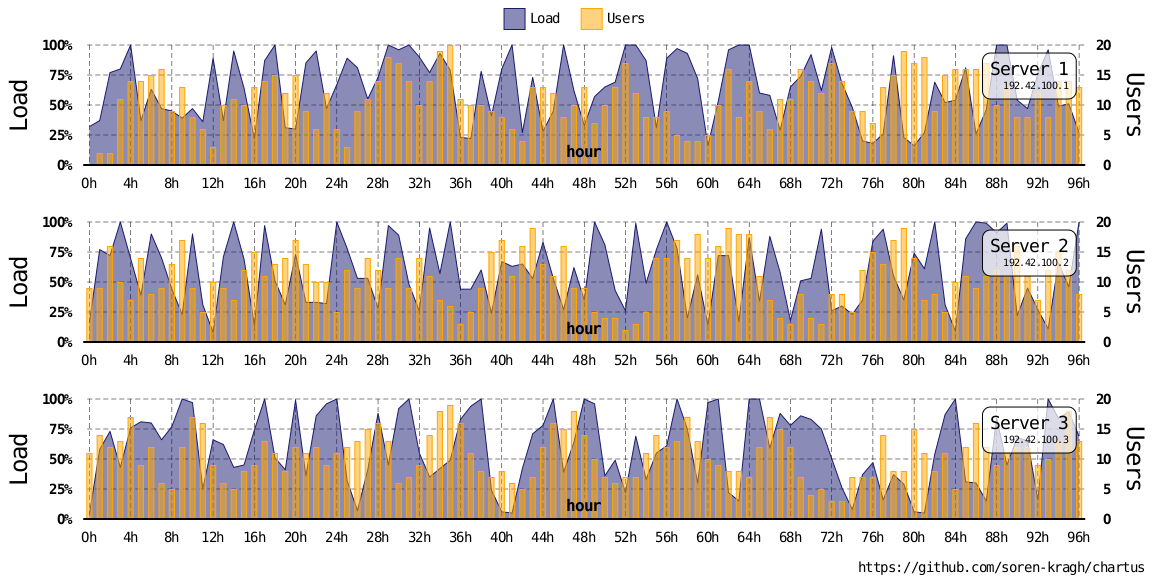
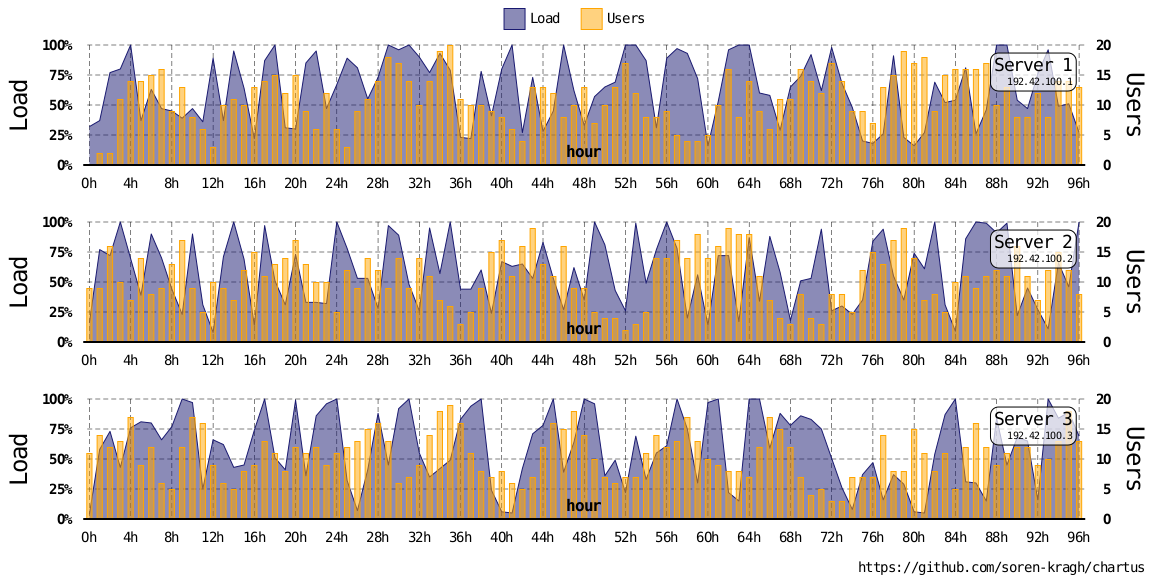
v2.0.0

Changed region(s): [[0.8423, 0.6792, 0.9359, 0.8027], [0.8423, 0.4014, 0.9359, 0.494], [0.8423, 0.0926, 0.9359, 0.1852]]

diff --git a/src/main.cpp b/src/main.cpp
@@ -79,7 +79,7 @@ state_t state;
 
 void show_version( void )
 {
-  std::cout << R"EOF(chartus v2.0.0-beta
+  std::cout << R"EOF(chartus v2.0.0
 This is free software: you are free to change and redistribute it.
 
 Written by Soren Kragh

diff --git a/README.md b/README.md
@@ -25,7 +25,7 @@ See [examples](#built-in-examples) below.
 ```sh
 git clone --recurse-submodules https://github.com/soren-kragh/chartus.git
 cd chartus
-git checkout VERSION    # Replace VERSION with actual release tag, e.g. v1.0.0
+git checkout VERSION    # Replace VERSION with actual release tag, e.g. v2.0.0
 git submodule update --init --recursive
 make
 ```
@@ -211,7 +211,7 @@ Series.Data :
 # ZeroToO: Off
 # GridPadding: 0 50
 # NewChartInGrid: 0 0 3 0 Center Bottom
-# NewChartInChart: 0 0 Bottom Right
+# NewChartOnGrid: Bottom Right
 # ChartPadding: -1 0
 # ChartPaddingX: 12
 # ChartPaddingY: 12
@@ -301,10 +301,11 @@ Series.Data :
 # @FillColor: None
 # @TextColor: black
 # @TextAnchor: Top Center
-# @TextSize: 24
+# @TextSize: 1.5
 # @TextBold: On
 # @LetterSpacing: 1.8 1.1 0.8
 # @RectCornerRadius: 10
+# @BoxCornerRadius: 10
 # @Line: X1 Y1 X2 Y2
 # @Rect: X1 Y1 X2 Y2
 # @Circle: X Y Radius
@@ -595,10 +596,10 @@ FootnotePos: Right
 # row/column is wider (due to other larger charts) than the new chart.
 #NewChartInGrid: 0 0 1 1 Right Top
 
-# NewChartInChart has the same syntax as NewChartInGrid but with grid collision
+# NewChartOnGrid has the same syntax as NewChartInGrid but with grid collision
 # check disabled. A typical (if not only) use case for this is to embed a
 # smaller chart within and on top of another chart. When starting a new chart
-# with NewChartInChart, the ChartPadding (see below) defaults to 12 0. Please
+# with NewChartOnGrid, the ChartPadding (see below) defaults to 12 0. Please
 # note that the new chart is just placed on top of whatever previous charts were
 # drawn before, so more manual adjustments than usual might be needed.
 # As for the positional alignment, please note that these are relative to the
@@ -616,9 +617,9 @@ FootnotePos: Right
 #
 # # This embedded chart will be aligned relative to column 1, which is exactly
 # # as wide as the previous not so wide chart:
-# NewChartInChart: Bottom Left
+# NewChartOnGrid: Bottom Left
 #
-#NewChartInChart: 0 0 Left Top
+#NewChartOnGrid: 0 0 Left Top
 
 # Defines the padding for the current chart, it works somewhat like GridPadding
 # but applies to the current chart only. Normally charts arranged in a grid are
@@ -630,8 +631,8 @@ FootnotePos: Right
 # behavior). The second optional number specifies the additional extra margin
 # when aligning relative the core chart area.
 # You typically use ChartPadding to adjust placement of embedded charts (see
-# NewChartInChart).
-# The NewChartInGrid and NewChartInChart defaults respectively are shown below.
+# NewChartOnGrid).
+# The NewChartInGrid and NewChartOnGrid defaults respectively are shown below.
 #ChartPadding: -1 0
 #ChartPadding: 12 0
 
@@ -1188,7 +1189,7 @@ MacroDef: AnnotationDocumentation
 
 # Applies to all subsequent annotations.
 @TextAnchor: Top Center
-@TextSize: 24
+@TextSize: 1.5
 @TextBold: On
 
 # The LetterSpacing (see earler description) is used for all subsequent @Text
@@ -1196,13 +1197,14 @@ MacroDef: AnnotationDocumentation
 @LetterSpacing: 1.8 1.1 0.8
 
 # Rounded corners for rectangles; is used for all subsequent @Rect and @TextBox
-# elements.
+# elements. BoxCornerRadius is just an alias.
 @RectCornerRadius: 10
+@BoxCornerRadius: 10
 
 @Line: X1 Y1 X2 Y2
 @Rect: X1 Y1 X2 Y2
 @Circle: X Y Radius
-@Ellipse: X Y RadiusX RadiusY
+@Ellipse: X1 Y1 X2 Y2
 @Polyline: X1 Y1 X2 Y2 X3 Y3 ...
 @Polygon: X1 Y1 X2 Y2 X3 Y3 ...
 

diff --git a/CHANGELOG.md b/CHANGELOG.md
@@ -3,6 +3,22 @@
 All notable changes to this project will be documented in this file.
 
 ## [Unreleased]
+
+### Added
+
+### Changed
+
+### Deprecated
+
+### Removed
+
+### Fixed
+
+---
+
+
+## [2.0.0] - 2025-12-15
+
 ### Added
 - Add Series.Color
 - Support annotations
@@ -26,14 +42,8 @@ All notable changes to this project will be documented in this file.
 - TitleFrame renamed TitleBox
 - LegendFrame renamed LegendBox
 
-### Deprecated
-
-### Removed
-
-### Fixed
-
----
 
 ## [1.0.0] - 2025-07-14
+
 ### Added
 - Initial release
